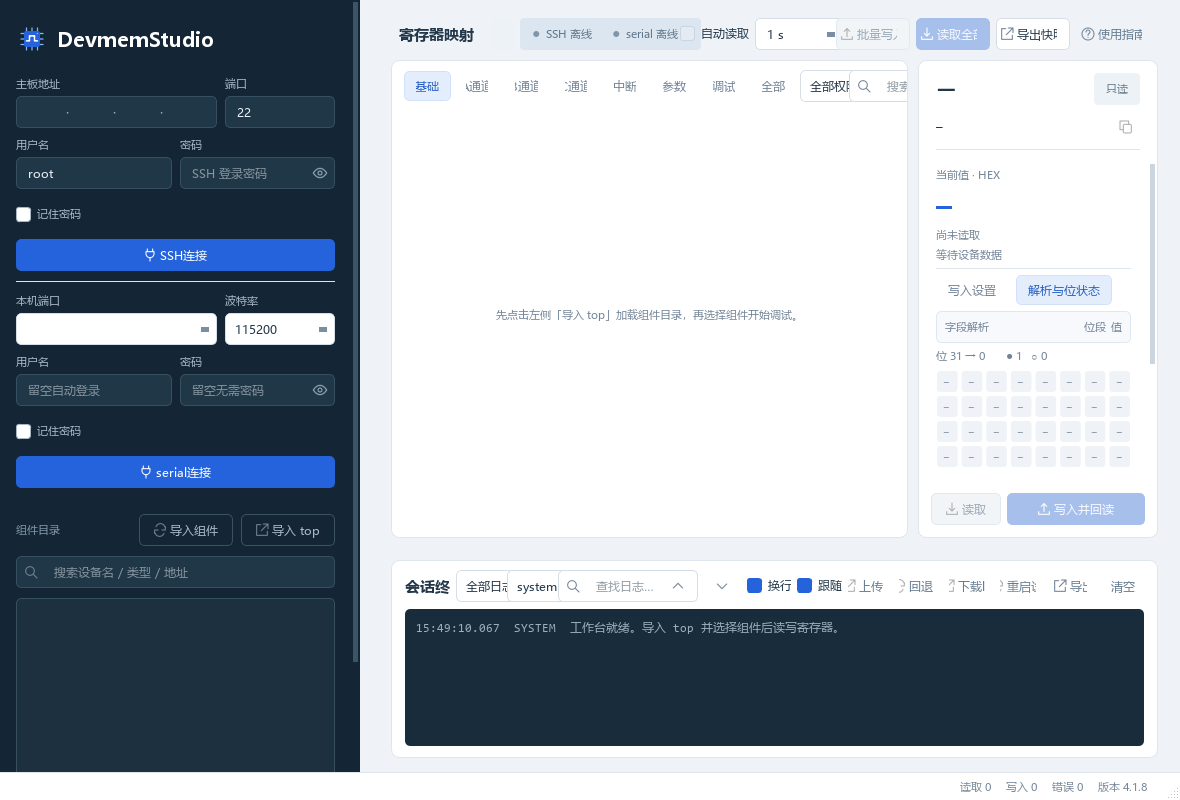
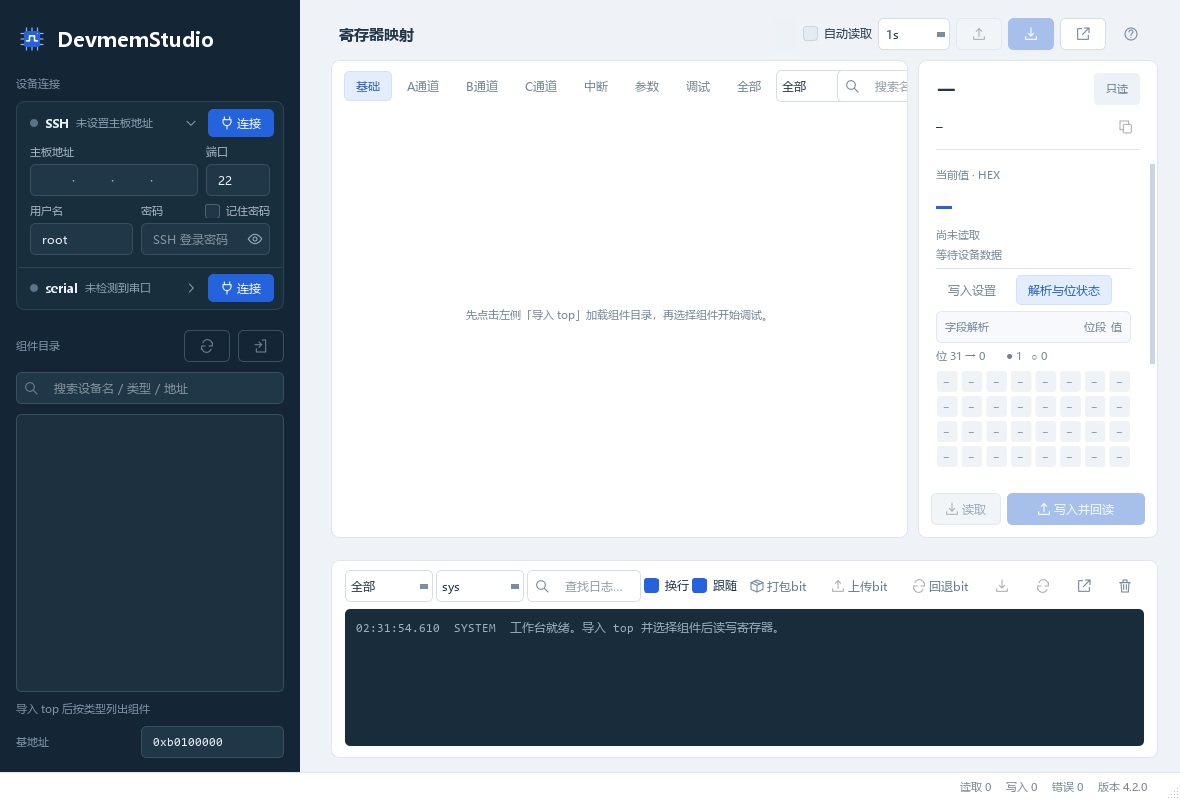
4.2.0 构建验收记录：294 项回归 + 两轮 102 项单 EXE 隔离验收通过
EXE 文件及产品版本 4.2.0，19,621,376 字节，
SHA-256 3814a1cbb8c3e5c32994cc53cc65dcb72c9c2e6b1ee4e40ce7ff27523165329a。
发布包 dist/DevmemStudio-4.2.0-win64.zip，19,510,383 字节。
隔离验收第 2 轮覆盖缓存损坏自愈与旧版本缓存清理；附验收截图。

diff --git a/docs/VALIDATION.md b/docs/VALIDATION.md
@@ -1,67 +1,73 @@
-# 寄存器调试工作台 4.1.8 验收记录
+# 寄存器调试工作台 4.2.0 验收记录
 
-完成时间：2026-10-06（4.1.8 构建）
+完成时间：2026-10-07（4.2.0 构建）
 
 ## 构建与发布产物
 
-- 构建环境：本项目 venv，Python 3.12.2，Paramiko 4.0.0，PyInstaller 6.22.2，Windows x64。
-- 依赖：按 `requirements-lock.txt` 安装；全部固定版本匹配，`pip check` 通过。
-- 最终产物：`dist/DevmemStudio.exe`，31,383,044 字节。
-- 应用版本、Windows 文件/产品版本均为 **4.1.8**；固定版本资源为 `4.1.8.0`，PE 架构为 x64。
[1 lines of base64/hex data omitted]
-- 发布包：`dist/DevmemStudio-4.1.8-win64.zip`，31,093,080 字节。
[1 lines of base64/hex data omitted]
+- 构建环境：本项目 venv，Python 3.12.2，Paramiko 4.0.0，PyInstaller 6.22.2，PySide6 6.11.2；单文件启动器由 MinGW-w64 `x86_64-w64-mingw32-gcc` 14.3 编译；Windows 10 x64。
+- 最终产物：`dist/DevmemStudio.exe`（单文件），**19,621,376 字节**（4.1.8 为 31,383,044 字节，-37.5%）。
+- 应用版本、Windows 文件/产品版本均为 **4.2.0**；固定版本资源为 `4.2.0.0`，PE 架构为 x64；启动器仅导入 Windows 自带的 kernel32、user32、Cabinet、bcrypt 与 msvcrt。
[1 lines of base64/hex data omitted]
+- 内嵌运行库：110 个文件、74.4 MB，LZMS 压缩后 19,482,634 字节；缓存目录 `%LOCALAPPDATA%\DevmemStudio\runtime\4.2.0-23ee15ccffc6`。
+- 发布包：`dist/DevmemStudio-4.2.0-win64.zip`，19,510,383 字节。
[1 lines of base64/hex data omitted]
 - 发布包只包含 `DevmemStudio/DevmemStudio.exe`，不含本机配置、凭据、日志或测试数据；ZIP CRC 校验通过，包内 EXE 的 SHA-256 与构建产物一致。
 
-## 本次修复
+## 本次变更
 
-详见 README「4.1.8 发布」与 [缺陷排查记录](BUG_AUDIT_2026-10-06.md)：
+详见 README「4.2.0 发布」：
 
-- RTL 基地址忽略注释和相似宏名，偏移不再将表达式截断成常量；非法常量跳过并警告。
-- 下载采用同目录临时文件和完成后替换，传输/替换失败不会破坏原文件。
-- 串口处理密码提示、延迟登录提示和登录阶段断线，不再误报就绪。
-- 异常地址配置恢复；密码记忆标志严格校验，异常真值不保存密码。
-- 损坏组件表、预设、位域和行为元数据安全过滤，坏覆盖不遮蔽正常内置表。
-- 离线静默读写始终执行参数校验，非法写入不污染模拟内存。
+- 连接卡片：SSH / serial 每通道一行（状态圆点、目标摘要、连接按钮），参数按需展开、一次一个；Enter 连接；连接状态集中到卡片，标题行去掉重复徽章与会话摘要；修复类型徽标空间足够仍被省略。
+- 单文件封装：原生启动器 + Windows LZMS 压缩运行库，每版本首次解压到用户缓存，之后直接复用；SHA-256 校验、原子发布、损坏自愈、旧版本缓存自动清理、并发启动互斥；任务栏固定指向外层 EXE。
+- 启动与体积：SSH 库延迟到窗口出现后后台加载；剔除 `invoke`、OpenSSL 版 hashlib 与 `libcrypto-3.dll`、随包 UCRT 副本、Qt 翻译与多余平台插件；PYZ 以存储方式交给 LZMS 统一压缩。
+- 集成打包 bit 工具与单行响应式工具栏（4.2.0 前期工作）。
 
 内置组件目录未重生成或修改，保留 **57 个类型 / 2612 个寄存器**。
 
 ## 自动化验收
 
-与 `build_exe.bat` 相同的流水线逐步通过：固定依赖 → 图标生成 → 全量回归 → 源码离线 smoke → PyInstaller → 单 EXE 隔离验收 → 发布 ZIP。
-本次使用独立的 4.1.8 PyInstaller 工作目录，未改动已有版本的 ZIP。
+`build_exe.bat` 全流水线一次通过：固定依赖 → 图标生成 → 全量回归 → 源码离线 smoke → PyInstaller 运行库 → 单文件封装 → 单 EXE 隔离验收 → 发布 ZIP。
 
 | 验收项 | 结果 |
 | --- | --- |
-| 全量回归（含本机 SSH 回环、虚拟串口、GUI） | **231 项通过**，382.692 秒；较 4.1.7 新增 23 项 |
-| 源码离线 smoke | **75 项检查全部通过** |
-| 单 EXE 隔离 smoke | **75 项检查全部通过**，`passed: true` / `frozen: true` |
-| Windows 文件与产品版本 | 均为 **4.1.8** |
+| 全量回归（含本机 SSH 回环、虚拟串口、GUI、连接卡片、启动导入约束） | **294 项通过**，365.7 秒 |
+| 按发布包剔除条件（无 `invoke`、无 `_hashlib`）重跑 SSH 回环全套 | **24 项通过** |
+| 源码离线 smoke | **102 项检查全部通过** |
+| 单 EXE 隔离验收 第 1 轮（空缓存，首次解压） | **102 项检查全部通过**，`passed: true` / `frozen: true` |
+| 单 EXE 隔离验收 第 2 轮（人为损坏缓存 + 预置 2 小时前的旧版本缓存） | **102 项通过**；损坏文件已自动恢复，旧缓存已清理，无临时目录残留 |
+| 两个实例同时首次启动（空缓存） | 均通过 smoke，仅生成一份运行库缓存 |
+| Windows 文件与产品版本 | 均为 **4.2.0** |
 | ZIP 完整性与内容 | CRC、包内 EXE 哈希、仅包含 EXE 均通过 |
 | 源码与差异检查 | `compileall`、`git diff --check` 通过 |
 
-单 EXE 隔离验收仅复制 EXE 启动，PATH 仅保留 Windows System32，清除 Python / venv 和外部 Qt 插件路径；打包的 Paramiko 版本与项目 venv 一致。
+单 EXE 隔离验收仅复制 EXE 启动，PATH 仅保留 Windows System32，清除 Python / venv 和外部 Qt 插件路径，并使用空的独立 `LOCALAPPDATA`；打包的 Paramiko 版本与项目 venv 一致。
+
+## 启动速度
+
+见 [启动速度验证](startup-performance.md)：日常启动中位数 3.09 秒 → **0.75 秒**（-76%），同版本仅首次启动需要解压。
 
 ## 界面检查
 
-以下截图来自本次 4.1.8 单 EXE 隔离验收，均为明确标注的离线演示数据：
+以下截图来自本次单 EXE 隔离验收（离线演示数据）：
 
-- [主窗口与寄存器解析](workbench.png)
-- [会话终端（system 视图）](board-log.png)
+- [基础组件（常规窗口）](basic-component.png)
 - [紧凑窗口](compact.png)
-- [基础组件](basic-component.png)
+- [会话终端](board-log.png)
 - [字段解析](rpt-fields-compact.png)
 - [主机密钥变化提示](host-key-change.png)
 - [离线初始界面](offline.png)
 - [批量写入预览](batch-preview.png)
+- [打包 bit 弹窗](bitpack-dialog.png)
+
+README 中的 [工作台](workbench.png) 与 [连接卡片三种状态](connection-card.png) 由同一源码在 1540×960 窗口离线渲染。
 
 ## 证据位置
 
-- 流水线日志：`artifacts/release-4.1.8/build.log`。
-- 源码验收：`artifacts/release-4.1.8/source-smoke/report.json`。
-- EXE 隔离验收：`artifacts/release-4.1.8/exe-isolated/acceptance/report.json`。
-- 版本、依赖、哈希与发布包校验：`artifacts/release-4.1.8/release-check.json`。
-- 原始缺陷复现与修复验证：`docs/BUG_AUDIT_2026-10-06.md` 所列证据。
+- 流水线日志：`artifacts/claude-ui/build-exe-final.log`。
+- 源码验收：`artifacts/build-smoke/report.json`。
+- EXE 隔离验收：`artifacts/exe-isolated/acceptance-1/report.json`、`acceptance-2/report.json`。
+- 单文件封装记录：`artifacts/singlefile-build.json`。
+- 启动测速原始数据：`artifacts/startup-compare-*/report.json`、`artifacts/startup-singlefile-4.2.0/report.json`。
 
 ## 验证范围
 
